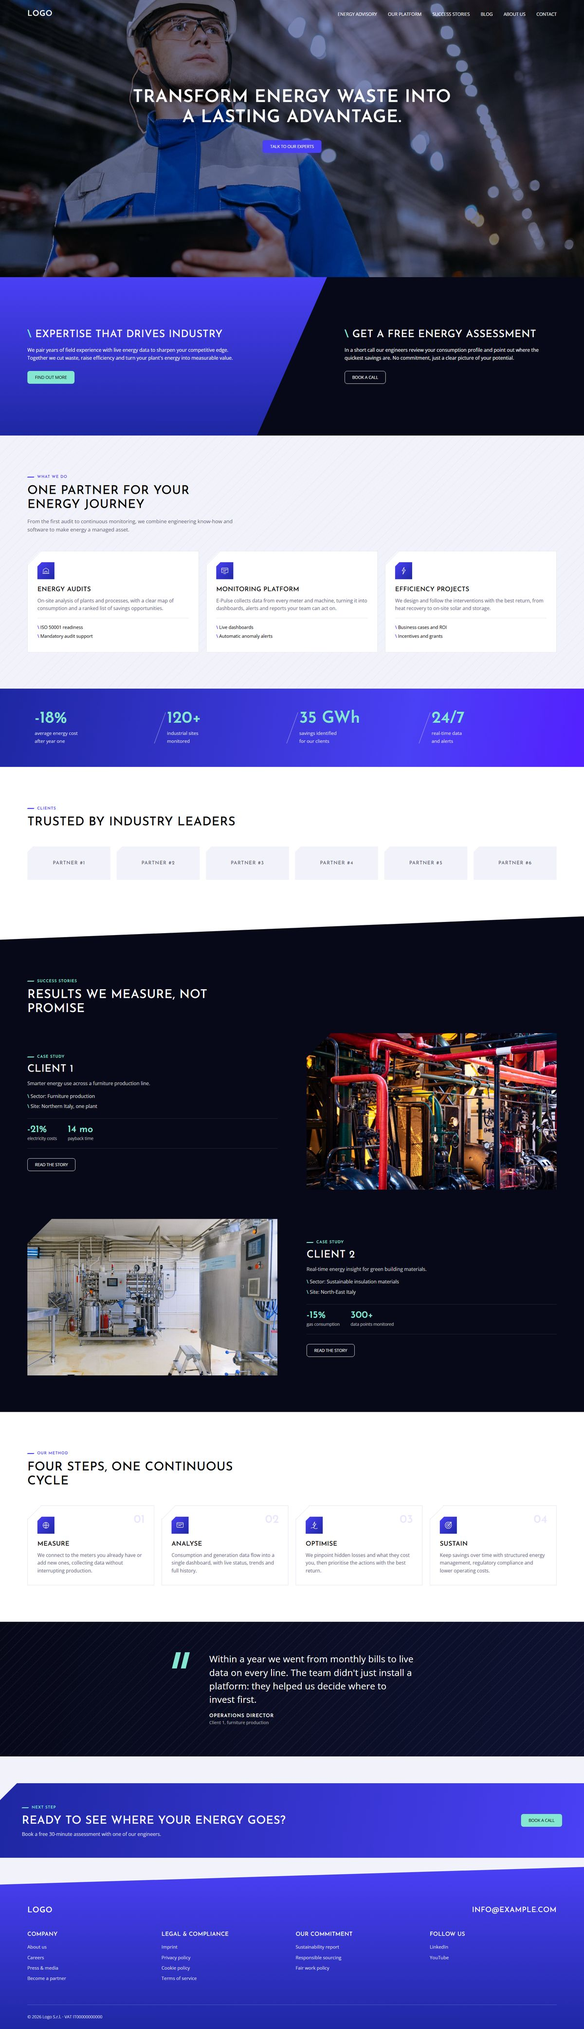
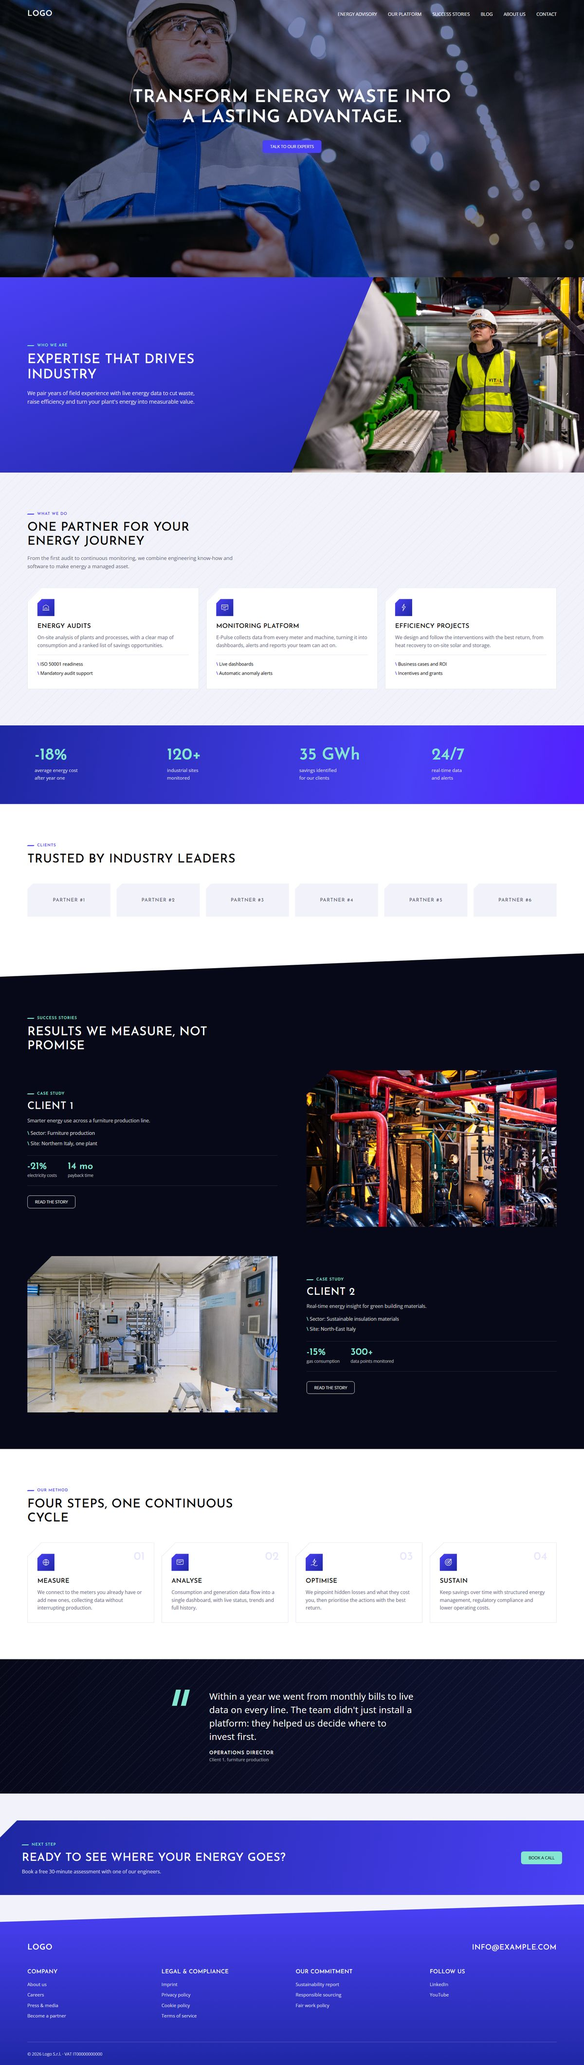
Industrial demo: insight block with photo, no slanted stat dividers
The split insight/CTA block becomes one violet panel cut diagonally over a
site photo (the free-assessment CTA already closes the page). Key figures
lose their slanted dividers.

Changed region(s): [[0.0, 0.0312, 1.0, 0.999], [0.74, 0.0312, 0.7708, 0.0624]]

diff --git a/energia/assets/css/main.css b/energia/assets/css/main.css
@@ -1,1 +1,1 @@
-*,*::before,*::after{box-sizing:border-box}html{scroll-behavior:smooth}body{margin:0;background:#fff;color:#000;font:400 16px/1.6 "Open Sans",system-ui,sans-serif;-webkit-font-smoothing:antialiased}img{display:block;max-width:100%;height:auto}a{color:inherit}p{margin:0 0 1em}h1,h2,h3{margin:0;font-family:"Josefin Sans",sans-serif;font-weight:500;text-transform:uppercase;letter-spacing:.02em;line-height:1.15}.btn{position:relative;z-index:0;display:inline-flex;align-items:center;overflow:hidden;padding:13px 24px;border:1px solid rgba(0,0,0,0);border-radius:8px;font:400 .85rem/1 "Open Sans",system-ui,sans-serif;text-transform:uppercase;text-decoration:none;transition:transform .3s ease,color .3s ease,background-color .3s ease,border-color .3s ease}.btn::before{content:"";position:absolute;inset:0;z-index:-1;background:linear-gradient(90deg, #85e6d1, #5420ff);opacity:0;transition:opacity .5s}.btn::after{display:inline-block;width:0;overflow:hidden;opacity:0;transition:width .3s ease,opacity .3s ease,transform .3s ease}.btn:hover{transform:scale(1.05)}.btn:hover::after{width:20px;opacity:1;transform:translateX(10px)}.btn--violet{background:#4a40f5;color:#fff;box-shadow:0 8px 20px rgba(74,64,245,.3)}.btn--violet:hover{color:#fff}.btn--violet:hover::before{opacity:1}.btn--teal{background:#85e6d1;color:#000}.btn--teal:hover{color:#fff}.btn--teal:hover::before{opacity:1}.btn--outline,.btn--ghost{border-color:#fff;background:rgba(0,0,0,0);color:#fff}.btn--outline::before,.btn--ghost::before{display:none}.btn--outline:hover,.btn--ghost:hover{border-color:#85e6d1;background:#85e6d1;color:#000}.slash::before{content:"\\ ";color:#85e6d1;font-weight:600}.slash--violet::before{color:#4a40f5}.kicker{display:block;margin-bottom:20px;font:600 .8rem/1 "Josefin Sans",sans-serif;letter-spacing:.04em;text-transform:uppercase;color:#85e6d1}.kicker--violet{color:#4a40f5;font-weight:400}.header{position:absolute;inset:0 0 auto;z-index:10;color:#fff}.header__inner{display:flex;align-items:center;justify-content:space-between;padding:28px clamp(20px,4.7vw,90px)}.header__toggle{display:flex;flex-direction:column;gap:5px;padding:10px;border:0;background:none;cursor:pointer}.header__toggle span{width:24px;height:2px;background:#fff}@media(min-width: 1100px){.header__toggle{display:none}}.header__nav{display:none;position:absolute;top:90px;left:0;right:0;flex-direction:column;padding:12px clamp(20px,4.7vw,90px) 20px;background:rgba(0,0,0,.92)}.header__nav.is-open{display:flex}@media(min-width: 1100px){.header__nav{display:flex;position:static;flex-direction:row;gap:36px;padding:0;background:none}}.header__nav a{padding:8px 0;font:400 .92rem "Open Sans",system-ui,sans-serif;text-transform:uppercase;text-decoration:none}.header__nav a:hover{color:#85e6d1}.logo{font:600 1.6rem/1 "Josefin Sans",sans-serif;letter-spacing:.04em;text-transform:uppercase;text-decoration:none}.hero{display:flex;flex-direction:column;align-items:center;justify-content:center;gap:40px;min-height:600px;padding:140px 20px 80px;text-align:center;color:#fff;background:linear-gradient(rgba(10, 30, 110, 0.55), rgba(10, 30, 110, 0.55)),url("../img/hero.jpg") center 30%/cover;background-blend-mode:multiply}@media(min-width: 1100px){.hero{min-height:910px;padding-bottom:260px}}.hero h1{font-size:clamp(2rem,4.2vw,3.6rem);font-weight:600;text-shadow:0 2px 20px rgba(0,0,0,.3)}.insight{display:grid;background:#070919}@media(min-width: 1100px){.insight{grid-template-columns:1fr 1fr;min-height:520px}}.insight__panel{display:flex;flex-direction:column;justify-content:center;align-items:flex-start;padding:64px clamp(20px,4.7vw,90px);background:linear-gradient(180deg, #4a40f5, #1e27a2);color:#fff}@media(min-width: 1100px){.insight__panel{grid-column:1/3;grid-row:1;width:56%;padding-right:calc(12% + 3vw);clip-path:polygon(0 0, 100% 0, 78.57% 100%, 0 100%)}}.insight__panel h2{margin-bottom:18px;font-size:clamp(1.5rem,2.2vw,2.1rem)}.insight__panel p{margin:0 0 30px;font-size:1rem}.insight__cta{display:flex;flex-direction:column;justify-content:center;align-items:flex-start;gap:28px;padding:56px clamp(20px,4.7vw,90px)}@media(min-width: 1100px){.insight__cta{grid-column:1/3;grid-row:1;padding:0 clamp(20px,4.7vw,90px) 0 calc(56% + 3vw)}}.insight__cta{color:#fff}.insight__cta h2{font-size:clamp(1.5rem,2.2vw,2.1rem)}.insight__cta p{margin:-10px 0 2px;font-size:1rem}.wrap{width:100%;max-width:1920px;margin:0 auto;padding:0 clamp(20px,4.7vw,90px)}.section{position:relative;padding:88px 0}@media(min-width: 1100px){.section{padding:120px 0}}.section--mist{background:repeating-linear-gradient(135deg, rgba(74, 64, 245, 0.035) 0 2px, transparent 2px 22px),#f2f3fa}.section--dark{background:#070919;color:#fff}.head{max-width:720px;margin-bottom:56px}.head h2{font-size:clamp(1.7rem,2.6vw,2.5rem)}.head h2+p{margin:18px 0 0;color:#5b6078;font-size:1.05rem}.section--dark .head h2+p{color:rgba(255,255,255,.7)}.head--row{display:flex;flex-wrap:wrap;align-items:flex-end;justify-content:space-between;gap:16px;max-width:none}.kicker{display:inline-flex;align-items:center;gap:10px;margin-bottom:16px;color:#4a40f5;font-weight:600;letter-spacing:.08em}.kicker::before{content:"";width:22px;height:3px;background:currentColor;transform:skewX(-35deg)}.section--dark .kicker,.kicker--teal{color:#85e6d1}.grid{display:grid;gap:24px}@media(min-width: 768px){.grid--3{grid-template-columns:repeat(2, 1fr)}}@media(min-width: 1100px){.grid--3{grid-template-columns:repeat(3, 1fr)}}@media(min-width: 768px){.grid--4{grid-template-columns:repeat(2, 1fr)}}@media(min-width: 1100px){.grid--4{grid-template-columns:repeat(4, 1fr)}}.stats{position:relative;z-index:1;margin-top:-1px;padding:72px 0;background:linear-gradient(100deg, #1e27a2, #4a40f5 70%, #5420ff);color:#fff}.stats__grid{display:grid;grid-template-columns:repeat(2, 1fr);gap:36px 0}@media(min-width: 1100px){.stats__grid{grid-template-columns:repeat(4, 1fr)}}.stat{position:relative;padding:0 24px}.stat+.stat::before{content:"";position:absolute;left:0;top:6px;bottom:6px;width:2px;background:rgba(255,255,255,.35);transform:skewX(-20deg)}@media(max-width: 1099px){.stat:nth-child(3)::before{display:none}}.stat strong{display:block;margin-bottom:8px;font:600 clamp(2.2rem, 3.6vw, 3.4rem)/1 "Josefin Sans",sans-serif;color:#85e6d1}.stat span{font-size:.95rem;color:rgba(255,255,255,.85)}.tile,.step{position:relative;padding:36px 32px 34px;border:1px solid #dfe1ef;background:#fff;clip-path:polygon(44px 0, 100% 0, 100% 100%, 0 100%, 0 44px);transition:transform .3s ease,box-shadow .3s ease}.tile::before,.step::before{content:"";position:absolute;top:0;left:0;width:62.216px;height:1px;background:#dfe1ef;transform:rotate(-45deg);transform-origin:0 0;translate:0 44px}.tile::after,.step::after{content:"";position:absolute;top:0;left:44px;right:0;height:3px;background:linear-gradient(90deg, #4a40f5, #85e6d1);transform:scaleX(0);transform-origin:left;transition:transform .4s ease}.tile:hover,.step:hover{transform:translateY(-4px);box-shadow:0 18px 40px rgba(30,39,162,.12)}.tile:hover::after,.step:hover::after{transform:scaleX(1)}.tile h3,.step h3{margin:22px 0 12px;font-size:1.3rem}.tile p,.step p{margin:0;color:#5b6078}.tile ul,.step ul{margin:18px 0 0;padding:18px 0 0;border-top:1px solid #dfe1ef;list-style:none;font-size:.92rem}.tile ul li,.step ul li{margin-bottom:6px}.tile ul li::before,.step ul li::before{content:"\\ ";color:#4a40f5;font-weight:700}.tile__icon{display:grid;place-items:center;width:56px;height:56px;background:linear-gradient(135deg, #4a40f5, #1e27a2);clip-path:polygon(14px 0, 100% 0, 100% 100%, 0 100%, 0 14px)}.tile__icon svg{width:28px;height:28px;fill:none;stroke:#fff;stroke-width:1.6;stroke-linecap:round;stroke-linejoin:round}.step__num{position:absolute;top:28px;right:30px;font:600 2.4rem/1 "Josefin Sans",sans-serif;color:rgba(74,64,245,.14)}.clients__grid{display:grid;grid-template-columns:repeat(2, 1fr);gap:20px;margin:0;padding:0;list-style:none}@media(min-width: 768px){.clients__grid{grid-template-columns:repeat(3, 1fr)}}@media(min-width: 1100px){.clients__grid{grid-template-columns:repeat(6, 1fr)}}.partner{display:grid;place-items:center;aspect-ratio:5/2;background:#f2f3fa;font:500 1rem/1 "Josefin Sans",sans-serif;letter-spacing:.08em;text-transform:uppercase;color:#5b6078;clip-path:polygon(18px 0, 100% 0, 100% 100%, 0 100%, 0 18px);transition:background-color .3s ease,color .3s ease}.partner:hover{background:#4a40f5;color:#fff}.cases{clip-path:polygon(0 4vw, 100% 0, 100% 100%, 0 100%);padding-top:calc(88px + 4vw)}@media(min-width: 1100px){.cases{padding-top:calc(120px + 4vw)}}.case{display:grid;gap:36px;align-items:center}.case+.case{margin-top:96px}@media(min-width: 1100px){.case{grid-template-columns:1fr 1fr;gap:96px}}.case h3{margin-bottom:14px;font-size:2.1rem}.case p{color:rgba(255,255,255,.8)}.case__facts{margin:0 0 26px;padding:0;list-style:none}.case__facts li{margin-bottom:8px;color:rgba(255,255,255,.85)}.case__facts li::before{content:"\\ ";color:#85e6d1;font-weight:700}.case__metrics{display:flex;gap:36px;margin-bottom:32px;padding:20px 0;border-top:1px solid rgba(255,255,255,.15);border-bottom:1px solid rgba(255,255,255,.15)}.case__metrics strong{display:block;font:600 2rem/1 "Josefin Sans",sans-serif;color:#85e6d1}.case__metrics span{font-size:.85rem;color:rgba(255,255,255,.7)}.case__img{width:100%;aspect-ratio:16/10;object-fit:cover;clip-path:polygon(80px 0, 100% 0, 100% 100%, 0 100%, 0 80px)}@media(min-width: 1100px){.case--reverse .case__text{order:2}}.process{background:#fff}.quote{padding:100px 0;background:repeating-linear-gradient(135deg, rgba(255, 255, 255, 0.05) 0 2px, transparent 2px 22px),linear-gradient(100deg, #070919, #0e1230);color:#fff}.quote__inner{display:grid;gap:28px;max-width:980px}@media(min-width: 1100px){.quote__inner{grid-template-columns:80px 1fr;gap:48px}}.quote__mark{width:64px;fill:#85e6d1}.quote blockquote{margin:0}.quote p{margin:0 0 24px;font:400 clamp(1.3rem, 2.2vw, 1.9rem)/1.45 "Open Sans",system-ui,sans-serif}.quote footer{display:grid;gap:2px}.quote footer strong{font:600 1rem "Josefin Sans",sans-serif;text-transform:uppercase;letter-spacing:.06em}.quote footer span{color:rgba(255,255,255,.65);font-size:.9rem}.cta-band{padding:88px 0;background:#f2f3fa}.cta-band__inner{display:grid;gap:28px;align-items:center;padding:56px clamp(20px,4.7vw,90px);background:linear-gradient(100deg, #1e27a2, #4a40f5);color:#fff;clip-path:polygon(56px 0, 100% 0, 100% 100%, 0 100%, 0 56px)}@media(min-width: 1100px){.cta-band__inner{grid-template-columns:1fr auto;padding:64px 72px}}.cta-band__inner h2{margin-bottom:10px;font-size:clamp(1.6rem,2.4vw,2.3rem)}.cta-band__inner p{margin:0;color:rgba(255,255,255,.85)}span.btn{cursor:default}.footer{padding:calc(72px + 3vw) 0 40px;background:linear-gradient(180deg, #4a40f5, #1e27a2);color:#fff;clip-path:polygon(0 3vw, 100% 0, 100% 100%, 0 100%);margin-top:-3vw}.footer__top{display:flex;flex-wrap:wrap;align-items:center;justify-content:space-between;gap:20px;margin-bottom:56px}.footer__mail{font:500 clamp(1.1rem, 1.6vw, 1.5rem)/1 "Josefin Sans",sans-serif;text-transform:uppercase;letter-spacing:.03em}.footer__cols{display:grid;gap:40px 24px}@media(min-width: 768px){.footer__cols{grid-template-columns:repeat(2, 1fr)}}@media(min-width: 1100px){.footer__cols{grid-template-columns:repeat(4, 1fr)}}.footer__cols h2{margin-bottom:18px;font-size:1.15rem;font-weight:500}.footer__cols ul{margin:0;padding:0;list-style:none}.footer__cols li{margin-bottom:10px;font-size:.95rem;color:rgba(255,255,255,.85)}.footer__bottom{margin-top:64px;padding-top:28px;border-top:1px solid rgba(255,255,255,.25)}.footer__bottom p{margin:0;font-size:.85rem;color:rgba(255,255,255,.8)}nav a:not([href]){cursor:default}.tile,.step,.partner{cursor:pointer}
+*,*::before,*::after{box-sizing:border-box}html{scroll-behavior:smooth}body{margin:0;background:#fff;color:#000;font:400 16px/1.6 "Open Sans",system-ui,sans-serif;-webkit-font-smoothing:antialiased}img{display:block;max-width:100%;height:auto}a{color:inherit}p{margin:0 0 1em}h1,h2,h3{margin:0;font-family:"Josefin Sans",sans-serif;font-weight:500;text-transform:uppercase;letter-spacing:.02em;line-height:1.15}.btn{position:relative;z-index:0;display:inline-flex;align-items:center;overflow:hidden;padding:13px 24px;border:1px solid rgba(0,0,0,0);border-radius:8px;font:400 .85rem/1 "Open Sans",system-ui,sans-serif;text-transform:uppercase;text-decoration:none;transition:transform .3s ease,color .3s ease,background-color .3s ease,border-color .3s ease}.btn::before{content:"";position:absolute;inset:0;z-index:-1;background:linear-gradient(90deg, #85e6d1, #5420ff);opacity:0;transition:opacity .5s}.btn::after{display:inline-block;width:0;overflow:hidden;opacity:0;transition:width .3s ease,opacity .3s ease,transform .3s ease}.btn:hover{transform:scale(1.05)}.btn:hover::after{width:20px;opacity:1;transform:translateX(10px)}.btn--violet{background:#4a40f5;color:#fff;box-shadow:0 8px 20px rgba(74,64,245,.3)}.btn--violet:hover{color:#fff}.btn--violet:hover::before{opacity:1}.btn--teal{background:#85e6d1;color:#000}.btn--teal:hover{color:#fff}.btn--teal:hover::before{opacity:1}.btn--outline,.btn--ghost{border-color:#fff;background:rgba(0,0,0,0);color:#fff}.btn--outline::before,.btn--ghost::before{display:none}.btn--outline:hover,.btn--ghost:hover{border-color:#85e6d1;background:#85e6d1;color:#000}.slash::before{content:"\\ ";color:#85e6d1;font-weight:600}.slash--violet::before{color:#4a40f5}.kicker{display:block;margin-bottom:20px;font:600 .8rem/1 "Josefin Sans",sans-serif;letter-spacing:.04em;text-transform:uppercase;color:#85e6d1}.kicker--violet{color:#4a40f5;font-weight:400}.header{position:absolute;inset:0 0 auto;z-index:10;color:#fff}.header__inner{display:flex;align-items:center;justify-content:space-between;padding:28px clamp(20px,4.7vw,90px)}.header__toggle{display:flex;flex-direction:column;gap:5px;padding:10px;border:0;background:none;cursor:pointer}.header__toggle span{width:24px;height:2px;background:#fff}@media(min-width: 1100px){.header__toggle{display:none}}.header__nav{display:none;position:absolute;top:90px;left:0;right:0;flex-direction:column;padding:12px clamp(20px,4.7vw,90px) 20px;background:rgba(0,0,0,.92)}.header__nav.is-open{display:flex}@media(min-width: 1100px){.header__nav{display:flex;position:static;flex-direction:row;gap:36px;padding:0;background:none}}.header__nav a{padding:8px 0;font:400 .92rem "Open Sans",system-ui,sans-serif;text-transform:uppercase;text-decoration:none}.header__nav a:hover{color:#85e6d1}.logo{font:600 1.6rem/1 "Josefin Sans",sans-serif;letter-spacing:.04em;text-transform:uppercase;text-decoration:none}.hero{display:flex;flex-direction:column;align-items:center;justify-content:center;gap:40px;min-height:600px;padding:140px 20px 80px;text-align:center;color:#fff;background:linear-gradient(rgba(10, 30, 110, 0.55), rgba(10, 30, 110, 0.55)),url("../img/hero.jpg") center 30%/cover;background-blend-mode:multiply}@media(min-width: 1100px){.hero{min-height:910px;padding-bottom:260px}}.hero h1{font-size:clamp(2rem,4.2vw,3.6rem);font-weight:600;text-shadow:0 2px 20px rgba(0,0,0,.3)}.insight{display:grid;background:#070919}@media(min-width: 1100px){.insight{grid-template-columns:1fr 1fr;min-height:560px}}.insight__panel{position:relative;z-index:1;display:flex;flex-direction:column;justify-content:center;align-items:flex-start;padding:72px clamp(20px,4.7vw,90px);background:linear-gradient(160deg, #4a40f5, #1e27a2);color:#fff}@media(min-width: 1100px){.insight__panel{grid-column:1;grid-row:1;width:128%;padding-right:28%;clip-path:polygon(0 0, 100% 0, 78% 100%, 0 100%)}}.insight__panel h2{max-width:620px;margin-bottom:20px;font-size:clamp(1.8rem,2.8vw,2.7rem)}.insight__panel p{max-width:560px;margin:0;font-size:1.1rem;color:rgba(255,255,255,.88)}.insight__img{width:100%;height:100%;min-height:280px;object-fit:cover;object-position:center 20%}@media(min-width: 1100px){.insight__img{grid-column:2;grid-row:1}}.wrap{width:100%;max-width:1920px;margin:0 auto;padding:0 clamp(20px,4.7vw,90px)}.section{position:relative;padding:88px 0}@media(min-width: 1100px){.section{padding:120px 0}}.section--mist{background:repeating-linear-gradient(135deg, rgba(74, 64, 245, 0.035) 0 2px, transparent 2px 22px),#f2f3fa}.section--dark{background:#070919;color:#fff}.head{max-width:720px;margin-bottom:56px}.head h2{font-size:clamp(1.7rem,2.6vw,2.5rem)}.head h2+p{margin:18px 0 0;color:#5b6078;font-size:1.05rem}.section--dark .head h2+p{color:rgba(255,255,255,.7)}.head--row{display:flex;flex-wrap:wrap;align-items:flex-end;justify-content:space-between;gap:16px;max-width:none}.kicker{display:inline-flex;align-items:center;gap:10px;margin-bottom:16px;color:#4a40f5;font-weight:600;letter-spacing:.08em}.kicker::before{content:"";width:22px;height:3px;background:currentColor;transform:skewX(-35deg)}.section--dark .kicker,.kicker--teal{color:#85e6d1}.grid{display:grid;gap:24px}@media(min-width: 768px){.grid--3{grid-template-columns:repeat(2, 1fr)}}@media(min-width: 1100px){.grid--3{grid-template-columns:repeat(3, 1fr)}}@media(min-width: 768px){.grid--4{grid-template-columns:repeat(2, 1fr)}}@media(min-width: 1100px){.grid--4{grid-template-columns:repeat(4, 1fr)}}.stats{position:relative;z-index:1;margin-top:-1px;padding:72px 0;background:linear-gradient(100deg, #1e27a2, #4a40f5 70%, #5420ff);color:#fff}.stats__grid{display:grid;grid-template-columns:repeat(2, 1fr);gap:36px 0}@media(min-width: 1100px){.stats__grid{grid-template-columns:repeat(4, 1fr)}}.stat{position:relative;padding:0 24px}.stat strong{display:block;margin-bottom:8px;font:600 clamp(2.2rem, 3.6vw, 3.4rem)/1 "Josefin Sans",sans-serif;color:#85e6d1}.stat span{font-size:.95rem;color:rgba(255,255,255,.85)}.tile,.step{position:relative;padding:36px 32px 34px;border:1px solid #dfe1ef;background:#fff;clip-path:polygon(44px 0, 100% 0, 100% 100%, 0 100%, 0 44px);transition:transform .3s ease,box-shadow .3s ease}.tile::before,.step::before{content:"";position:absolute;top:0;left:0;width:62.216px;height:1px;background:#dfe1ef;transform:rotate(-45deg);transform-origin:0 0;translate:0 44px}.tile::after,.step::after{content:"";position:absolute;top:0;left:44px;right:0;height:3px;background:linear-gradient(90deg, #4a40f5, #85e6d1);transform:scaleX(0);transform-origin:left;transition:transform .4s ease}.tile:hover,.step:hover{transform:translateY(-4px);box-shadow:0 18px 40px rgba(30,39,162,.12)}.tile:hover::after,.step:hover::after{transform:scaleX(1)}.tile h3,.step h3{margin:22px 0 12px;font-size:1.3rem}.tile p,.step p{margin:0;color:#5b6078}.tile ul,.step ul{margin:18px 0 0;padding:18px 0 0;border-top:1px solid #dfe1ef;list-style:none;font-size:.92rem}.tile ul li,.step ul li{margin-bottom:6px}.tile ul li::before,.step ul li::before{content:"\\ ";color:#4a40f5;font-weight:700}.tile__icon{display:grid;place-items:center;width:56px;height:56px;background:linear-gradient(135deg, #4a40f5, #1e27a2);clip-path:polygon(14px 0, 100% 0, 100% 100%, 0 100%, 0 14px)}.tile__icon svg{width:28px;height:28px;fill:none;stroke:#fff;stroke-width:1.6;stroke-linecap:round;stroke-linejoin:round}.step__num{position:absolute;top:28px;right:30px;font:600 2.4rem/1 "Josefin Sans",sans-serif;color:rgba(74,64,245,.14)}.clients__grid{display:grid;grid-template-columns:repeat(2, 1fr);gap:20px;margin:0;padding:0;list-style:none}@media(min-width: 768px){.clients__grid{grid-template-columns:repeat(3, 1fr)}}@media(min-width: 1100px){.clients__grid{grid-template-columns:repeat(6, 1fr)}}.partner{display:grid;place-items:center;aspect-ratio:5/2;background:#f2f3fa;font:500 1rem/1 "Josefin Sans",sans-serif;letter-spacing:.08em;text-transform:uppercase;color:#5b6078;clip-path:polygon(18px 0, 100% 0, 100% 100%, 0 100%, 0 18px);transition:background-color .3s ease,color .3s ease}.partner:hover{background:#4a40f5;color:#fff}.cases{clip-path:polygon(0 4vw, 100% 0, 100% 100%, 0 100%);padding-top:calc(88px + 4vw)}@media(min-width: 1100px){.cases{padding-top:calc(120px + 4vw)}}.case{display:grid;gap:36px;align-items:center}.case+.case{margin-top:96px}@media(min-width: 1100px){.case{grid-template-columns:1fr 1fr;gap:96px}}.case h3{margin-bottom:14px;font-size:2.1rem}.case p{color:rgba(255,255,255,.8)}.case__facts{margin:0 0 26px;padding:0;list-style:none}.case__facts li{margin-bottom:8px;color:rgba(255,255,255,.85)}.case__facts li::before{content:"\\ ";color:#85e6d1;font-weight:700}.case__metrics{display:flex;gap:36px;margin-bottom:32px;padding:20px 0;border-top:1px solid rgba(255,255,255,.15);border-bottom:1px solid rgba(255,255,255,.15)}.case__metrics strong{display:block;font:600 2rem/1 "Josefin Sans",sans-serif;color:#85e6d1}.case__metrics span{font-size:.85rem;color:rgba(255,255,255,.7)}.case__img{width:100%;aspect-ratio:16/10;object-fit:cover;clip-path:polygon(80px 0, 100% 0, 100% 100%, 0 100%, 0 80px)}@media(min-width: 1100px){.case--reverse .case__text{order:2}}.process{background:#fff}.quote{padding:100px 0;background:repeating-linear-gradient(135deg, rgba(255, 255, 255, 0.05) 0 2px, transparent 2px 22px),linear-gradient(100deg, #070919, #0e1230);color:#fff}.quote__inner{display:grid;gap:28px;max-width:980px}@media(min-width: 1100px){.quote__inner{grid-template-columns:80px 1fr;gap:48px}}.quote__mark{width:64px;fill:#85e6d1}.quote blockquote{margin:0}.quote p{margin:0 0 24px;font:400 clamp(1.3rem, 2.2vw, 1.9rem)/1.45 "Open Sans",system-ui,sans-serif}.quote footer{display:grid;gap:2px}.quote footer strong{font:600 1rem "Josefin Sans",sans-serif;text-transform:uppercase;letter-spacing:.06em}.quote footer span{color:rgba(255,255,255,.65);font-size:.9rem}.cta-band{padding:88px 0;background:#f2f3fa}.cta-band__inner{display:grid;gap:28px;align-items:center;padding:56px clamp(20px,4.7vw,90px);background:linear-gradient(100deg, #1e27a2, #4a40f5);color:#fff;clip-path:polygon(56px 0, 100% 0, 100% 100%, 0 100%, 0 56px)}@media(min-width: 1100px){.cta-band__inner{grid-template-columns:1fr auto;padding:64px 72px}}.cta-band__inner h2{margin-bottom:10px;font-size:clamp(1.6rem,2.4vw,2.3rem)}.cta-band__inner p{margin:0;color:rgba(255,255,255,.85)}span.btn{cursor:default}.footer{padding:calc(72px + 3vw) 0 40px;background:linear-gradient(180deg, #4a40f5, #1e27a2);color:#fff;clip-path:polygon(0 3vw, 100% 0, 100% 100%, 0 100%);margin-top:-3vw}.footer__top{display:flex;flex-wrap:wrap;align-items:center;justify-content:space-between;gap:20px;margin-bottom:56px}.footer__mail{font:500 clamp(1.1rem, 1.6vw, 1.5rem)/1 "Josefin Sans",sans-serif;text-transform:uppercase;letter-spacing:.03em}.footer__cols{display:grid;gap:40px 24px}@media(min-width: 768px){.footer__cols{grid-template-columns:repeat(2, 1fr)}}@media(min-width: 1100px){.footer__cols{grid-template-columns:repeat(4, 1fr)}}.footer__cols h2{margin-bottom:18px;font-size:1.15rem;font-weight:500}.footer__cols ul{margin:0;padding:0;list-style:none}.footer__cols li{margin-bottom:10px;font-size:.95rem;color:rgba(255,255,255,.85)}.footer__bottom{margin-top:64px;padding-top:28px;border-top:1px solid rgba(255,255,255,.25)}.footer__bottom p{margin:0;font-size:.85rem;color:rgba(255,255,255,.8)}nav a:not([href]){cursor:default}.tile,.step,.partner{cursor:pointer}

diff --git a/energia/assets/scss/main.scss b/energia/assets/scss/main.scss
@@ -154,54 +154,47 @@ h1, h2, h3 { margin: 0; font-family: $head; font-weight: 500; text-transform: up
   h1 { font-size: clamp(2rem, 4.2vw, 3.6rem); font-weight: 600; text-shadow: 0 2px 20px rgba(0, 0, 0, .3); }
 }
 
-// ---------- insight ----------
+// ---------- insight: violet panel cut diagonally over a photo ----------
 .insight {
   display: grid;
   background: $ink;
 
-  @include lg { grid-template-columns: 1fr 1fr; min-height: 520px; }
+  @include lg { grid-template-columns: 1fr 1fr; min-height: 560px; }
 
   &__panel {
+    position: relative;
+    z-index: 1;
     display: flex;
     flex-direction: column;
     justify-content: center;
     align-items: flex-start;
-    padding: 64px $pad;
-    background: linear-gradient(180deg, #4a40f5, $violet-dark);
+    padding: 72px $pad;
+    background: linear-gradient(160deg, #4a40f5, $violet-dark);
     color: $white;
 
-    // 50/50 split: the diagonal runs from 56% to 44%, centred on the middle line;
-    // both text columns get the same width (44% - gap - side padding)
+    // panel spans past the middle; the diagonal edge falls on the photo
     @include lg {
-      grid-column: 1 / 3;
+      grid-column: 1;
       grid-row: 1;
-      width: 56%;
-      padding-right: calc(12% + #{$split-gap});
-      clip-path: polygon(0 0, 100% 0, 78.57% 100%, 0 100%);
+      width: 128%;
+      padding-right: 28%;
+      clip-path: polygon(0 0, 100% 0, 78% 100%, 0 100%);
     }
 
-    h2 { margin-bottom: 18px; font-size: clamp(1.5rem, 2.2vw, 2.1rem); }
-    p { margin: 0 0 30px; font-size: 1rem; }
+    h2 { max-width: 620px; margin-bottom: 20px; font-size: clamp(1.8rem, 2.8vw, 2.7rem); }
+    p { max-width: 560px; margin: 0; font-size: 1.1rem; color: rgba($white, .88); }
   }
 
-  &__cta {
-    display: flex;
-    flex-direction: column;
-    justify-content: center;
-    align-items: flex-start;
-    gap: 28px;
-    padding: 56px $pad;
+  &__img {
+    width: 100%;
+    height: 100%;
+    min-height: 280px;
+    object-fit: cover;
+    object-position: center 20%;
 
-    @include lg { grid-column: 1 / 3; grid-row: 1; padding: 0 $pad 0 calc(56% + #{$split-gap}); }
-
-    color: $white;
-
-    h2 { font-size: clamp(1.5rem, 2.2vw, 2.1rem); }
-    p { margin: -10px 0 2px; font-size: 1rem; }
+    @include lg { grid-column: 2; grid-row: 1; }
   }
-
 }
-
 
 // =====================================================================
 // Shared system: container, sections, heads, chamfered shapes
@@ -282,20 +275,6 @@ h1, h2, h3 { margin: 0; font-family: $head; font-weight: 500; text-transform: up
 .stat {
   position: relative;
   padding: 0 24px;
-
-  // slanted divider between figures
-  & + &::before {
-    content: "";
-    position: absolute;
-    left: 0;
-    top: 6px;
-    bottom: 6px;
-    width: 2px;
-    background: rgba($white, .35);
-    transform: skewX(-20deg);
-  }
-
-  &:nth-child(3)::before { @media (max-width: 1099px) { display: none; } }
 
   strong { display: block; margin-bottom: 8px; font: 600 clamp(2.2rem, 3.6vw, 3.4rem)/1 $head; color: $teal; }
   span { font-size: .95rem; color: rgba($white, .85); }

diff --git a/energia/index.html b/energia/index.html
@@ -35,15 +35,11 @@
 
     <section class="insight" id="insight">
       <div class="insight__panel">
-        <h2 class="slash">Expertise that drives industry</h2>
-        <p>We pair years of field experience with live energy data to sharpen your competitive edge. Together we cut waste, raise efficiency and turn your plant's energy into measurable value.</p>
-        <span class="btn btn--teal">Find out more</span>
+        <span class="kicker kicker--teal">Who we are</span>
+        <h2>Expertise that drives industry</h2>
+        <p>We pair years of field experience with live energy data to cut waste, raise efficiency and turn your plant's energy into measurable value.</p>
       </div>
-      <div class="insight__cta" id="consultation">
-        <h2 class="slash">Get a free energy assessment</h2>
-        <p>In a short call our engineers review your consumption profile and point out where the quickest savings are. No commitment, just a clear picture of your potential.</p>
-        <span class="btn btn--ghost">Book a call</span>
-      </div>
+      <img class="insight__img" src="assets/img/energy-manager.jpg" alt="Engineer with a hard hat checking data on a tablet" width="1200" height="800" loading="lazy">
     </section>
 
     <section class="section section--mist" id="services">

diff --git a/index.html b/index.html
@@ -72,7 +72,7 @@
 
       <li class="project">
         <button class="project__preview" type="button" data-full="assets/img/energia.jpg" data-site="energia/" aria-label="Apri il sito: Sito corporate industriale">
-          <img src="assets/img/energia.jpg" alt="Anteprima homepage di una società di efficienza energetica" loading="lazy" width="1200" height="4164">
+          <img src="assets/img/energia.jpg" alt="Anteprima homepage di una società di efficienza energetica" loading="lazy" width="1200" height="4236">
         </button>
         <div class="project__info">
           <span class="project__index">04</span>
